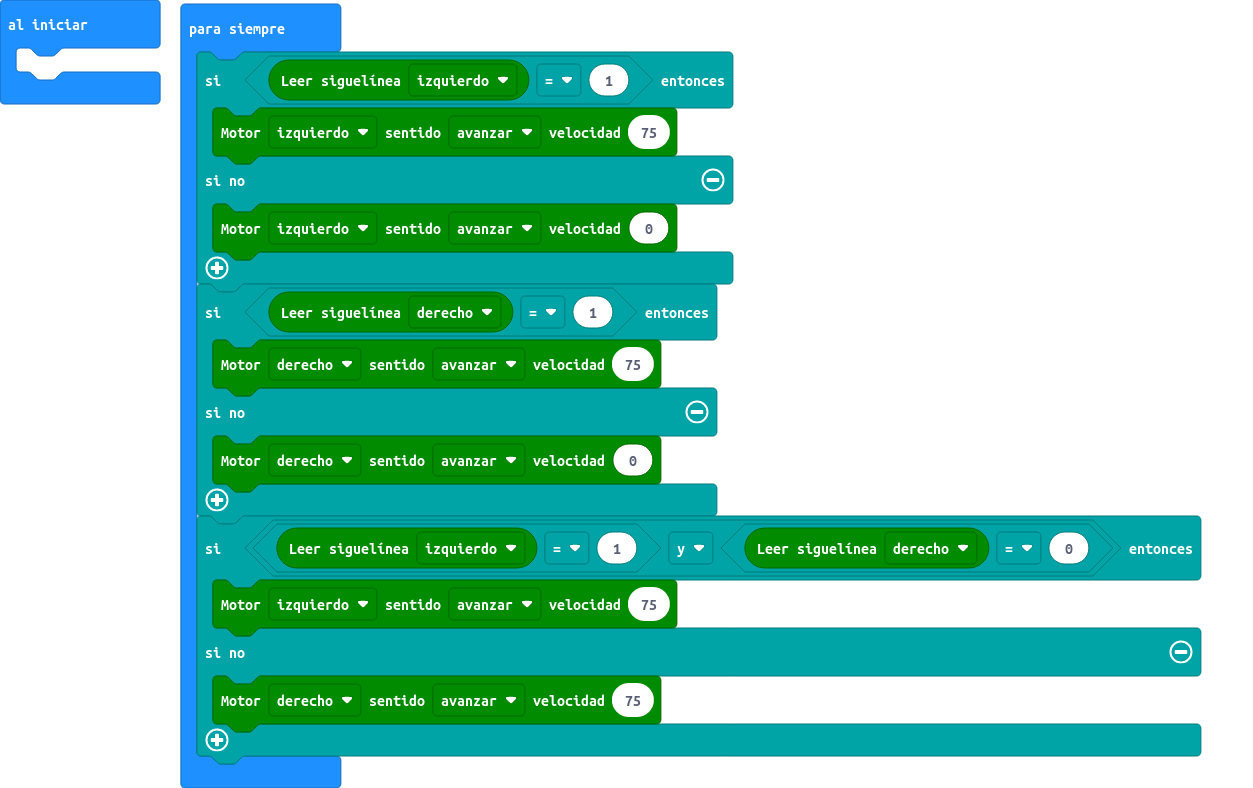
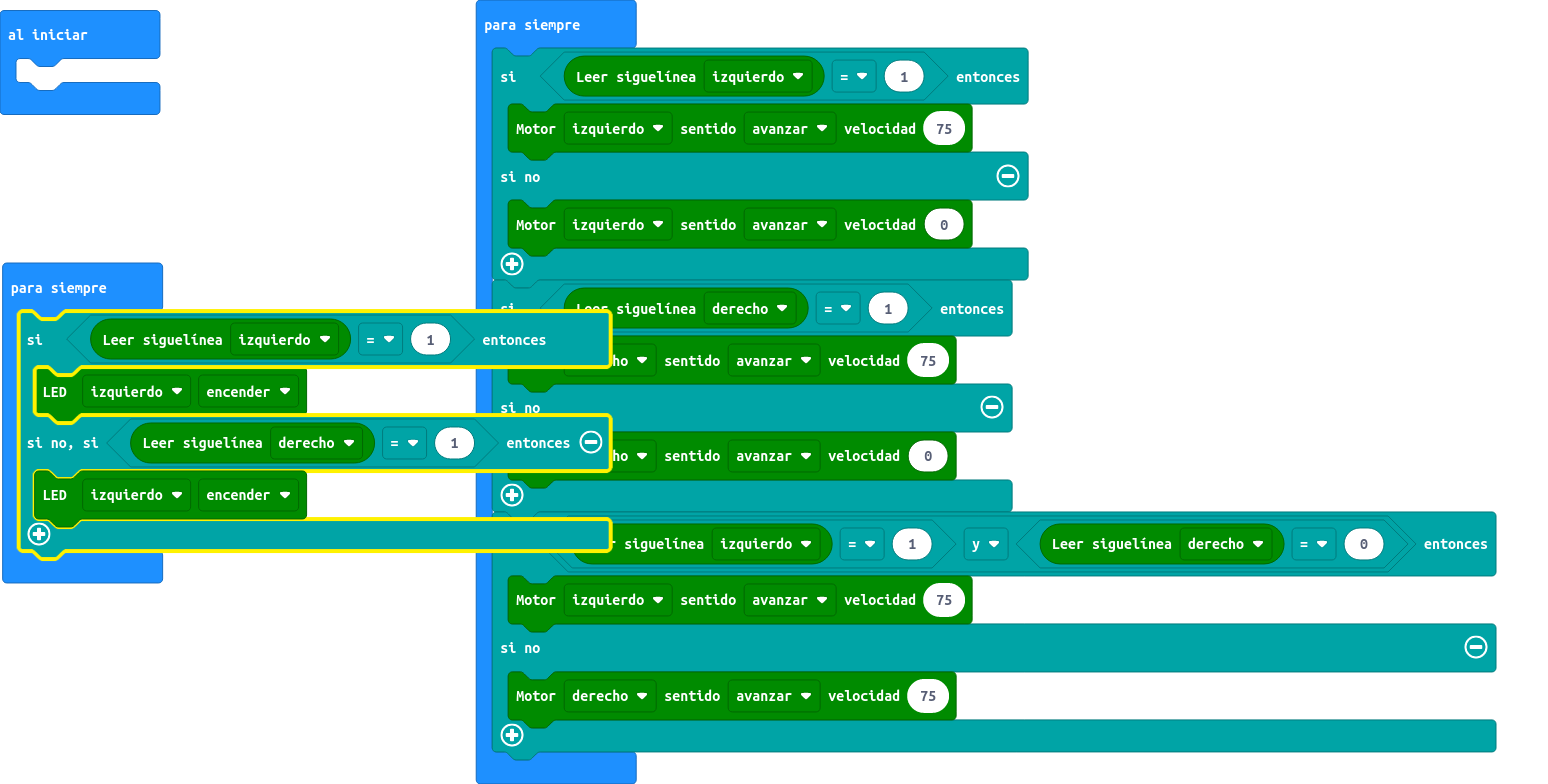
sigecaminosmaqueen1.3

diff --git a/main.ts b/main.ts
@@ -15,3 +15,10 @@ basic.forever(function () {
         maqueen.motorRun(maqueen.Motors.M2, maqueen.Dir.CW, 75)
     }
 })
+basic.forever(function () {
+    if (maqueen.readPatrol(maqueen.Patrol.PatrolLeft) == 1) {
+        maqueen.writeLED(maqueen.LED.LEDRight, maqueen.LEDswitch.turnOn)
+    } else if (maqueen.readPatrol(maqueen.Patrol.PatrolRight) == 1) {
+        maqueen.writeLED(maqueen.LED.LEDRight, maqueen.LEDswitch.turnOn)
+    }
+})
